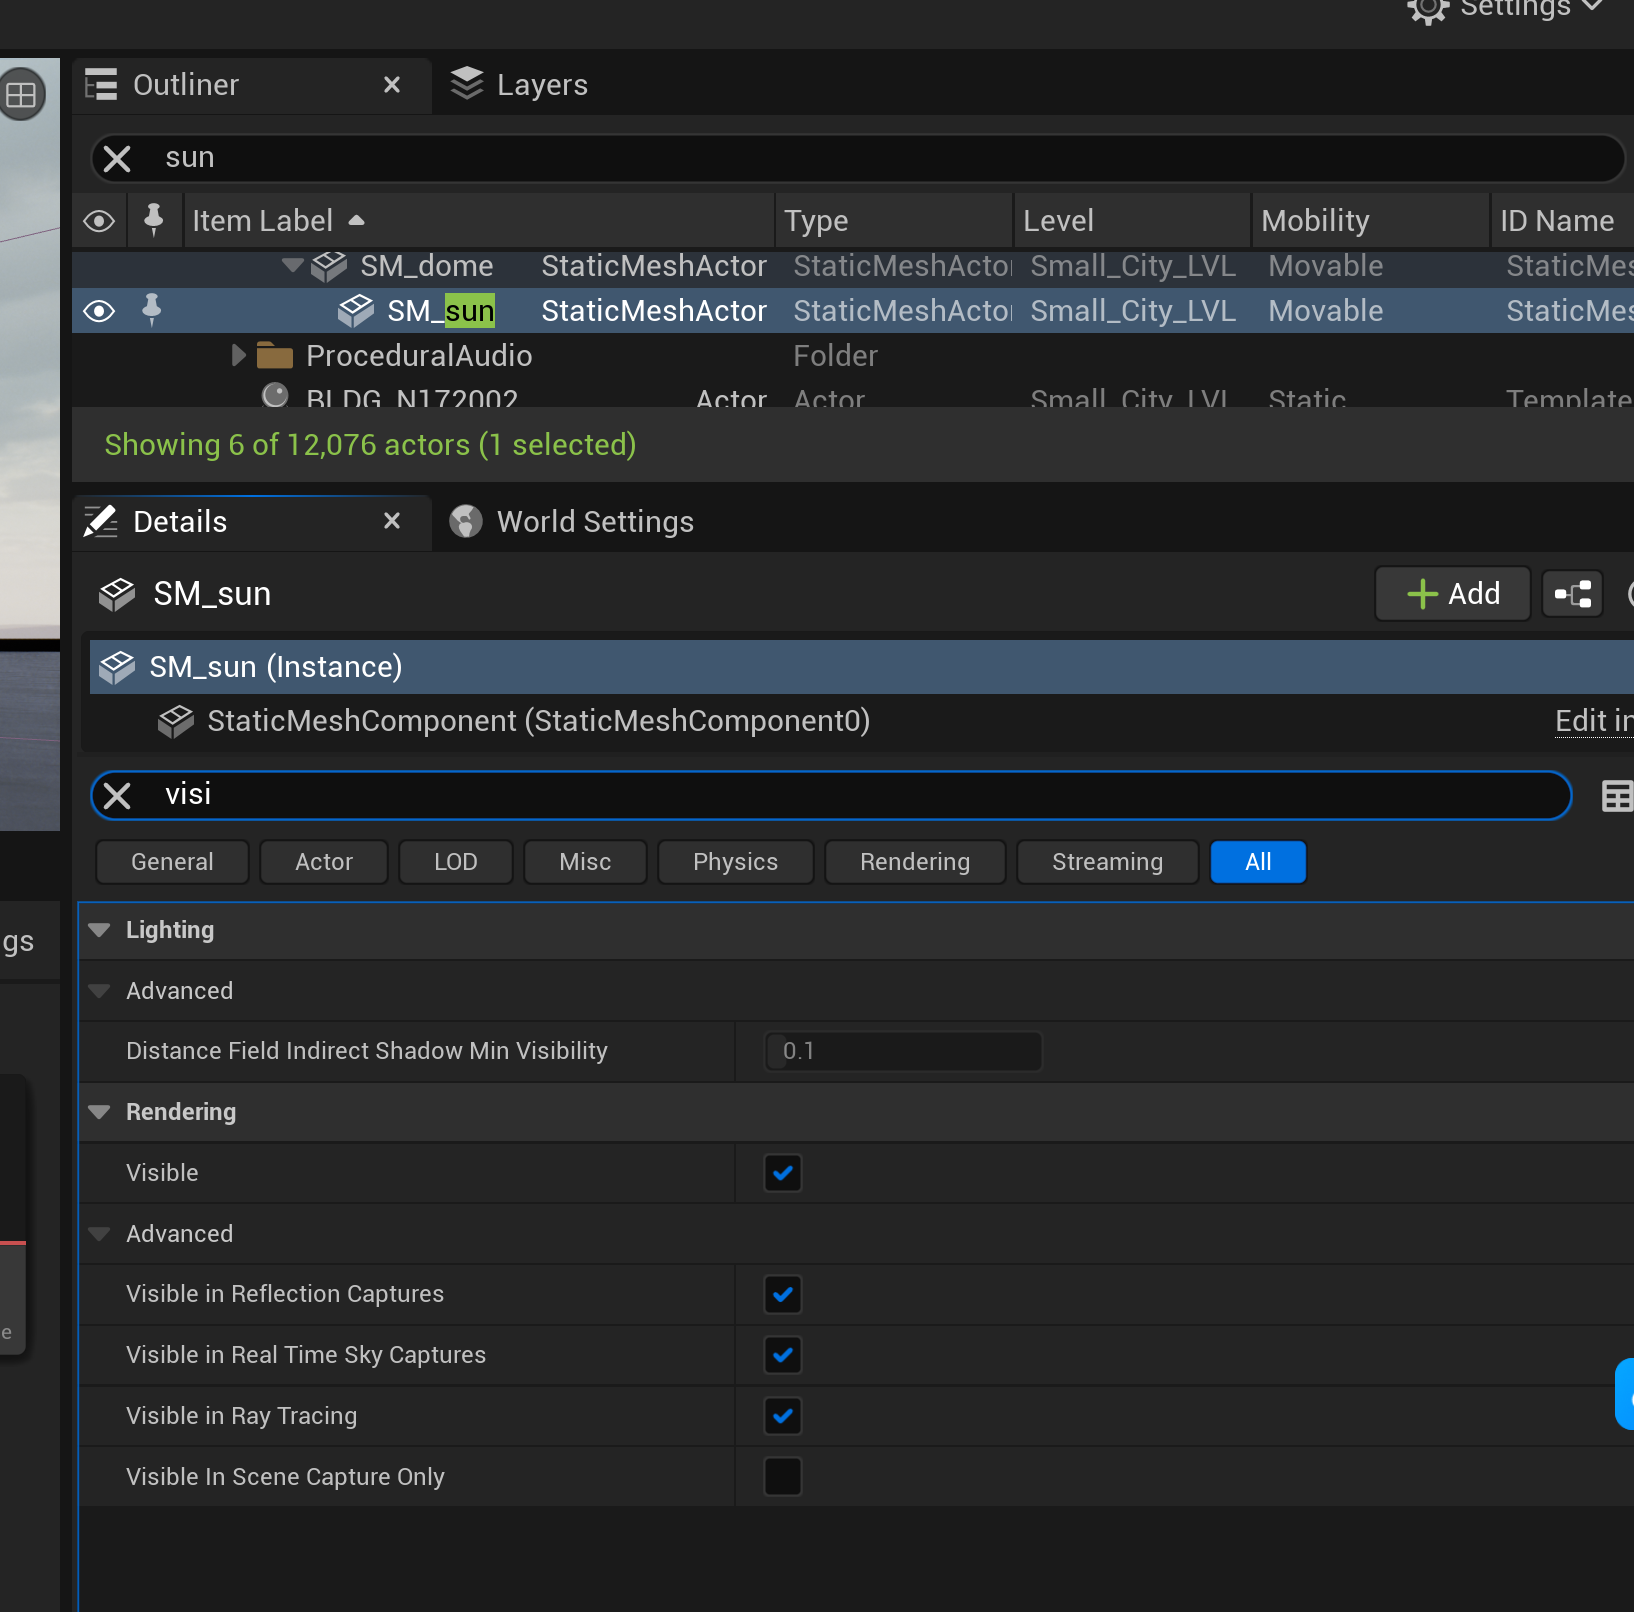
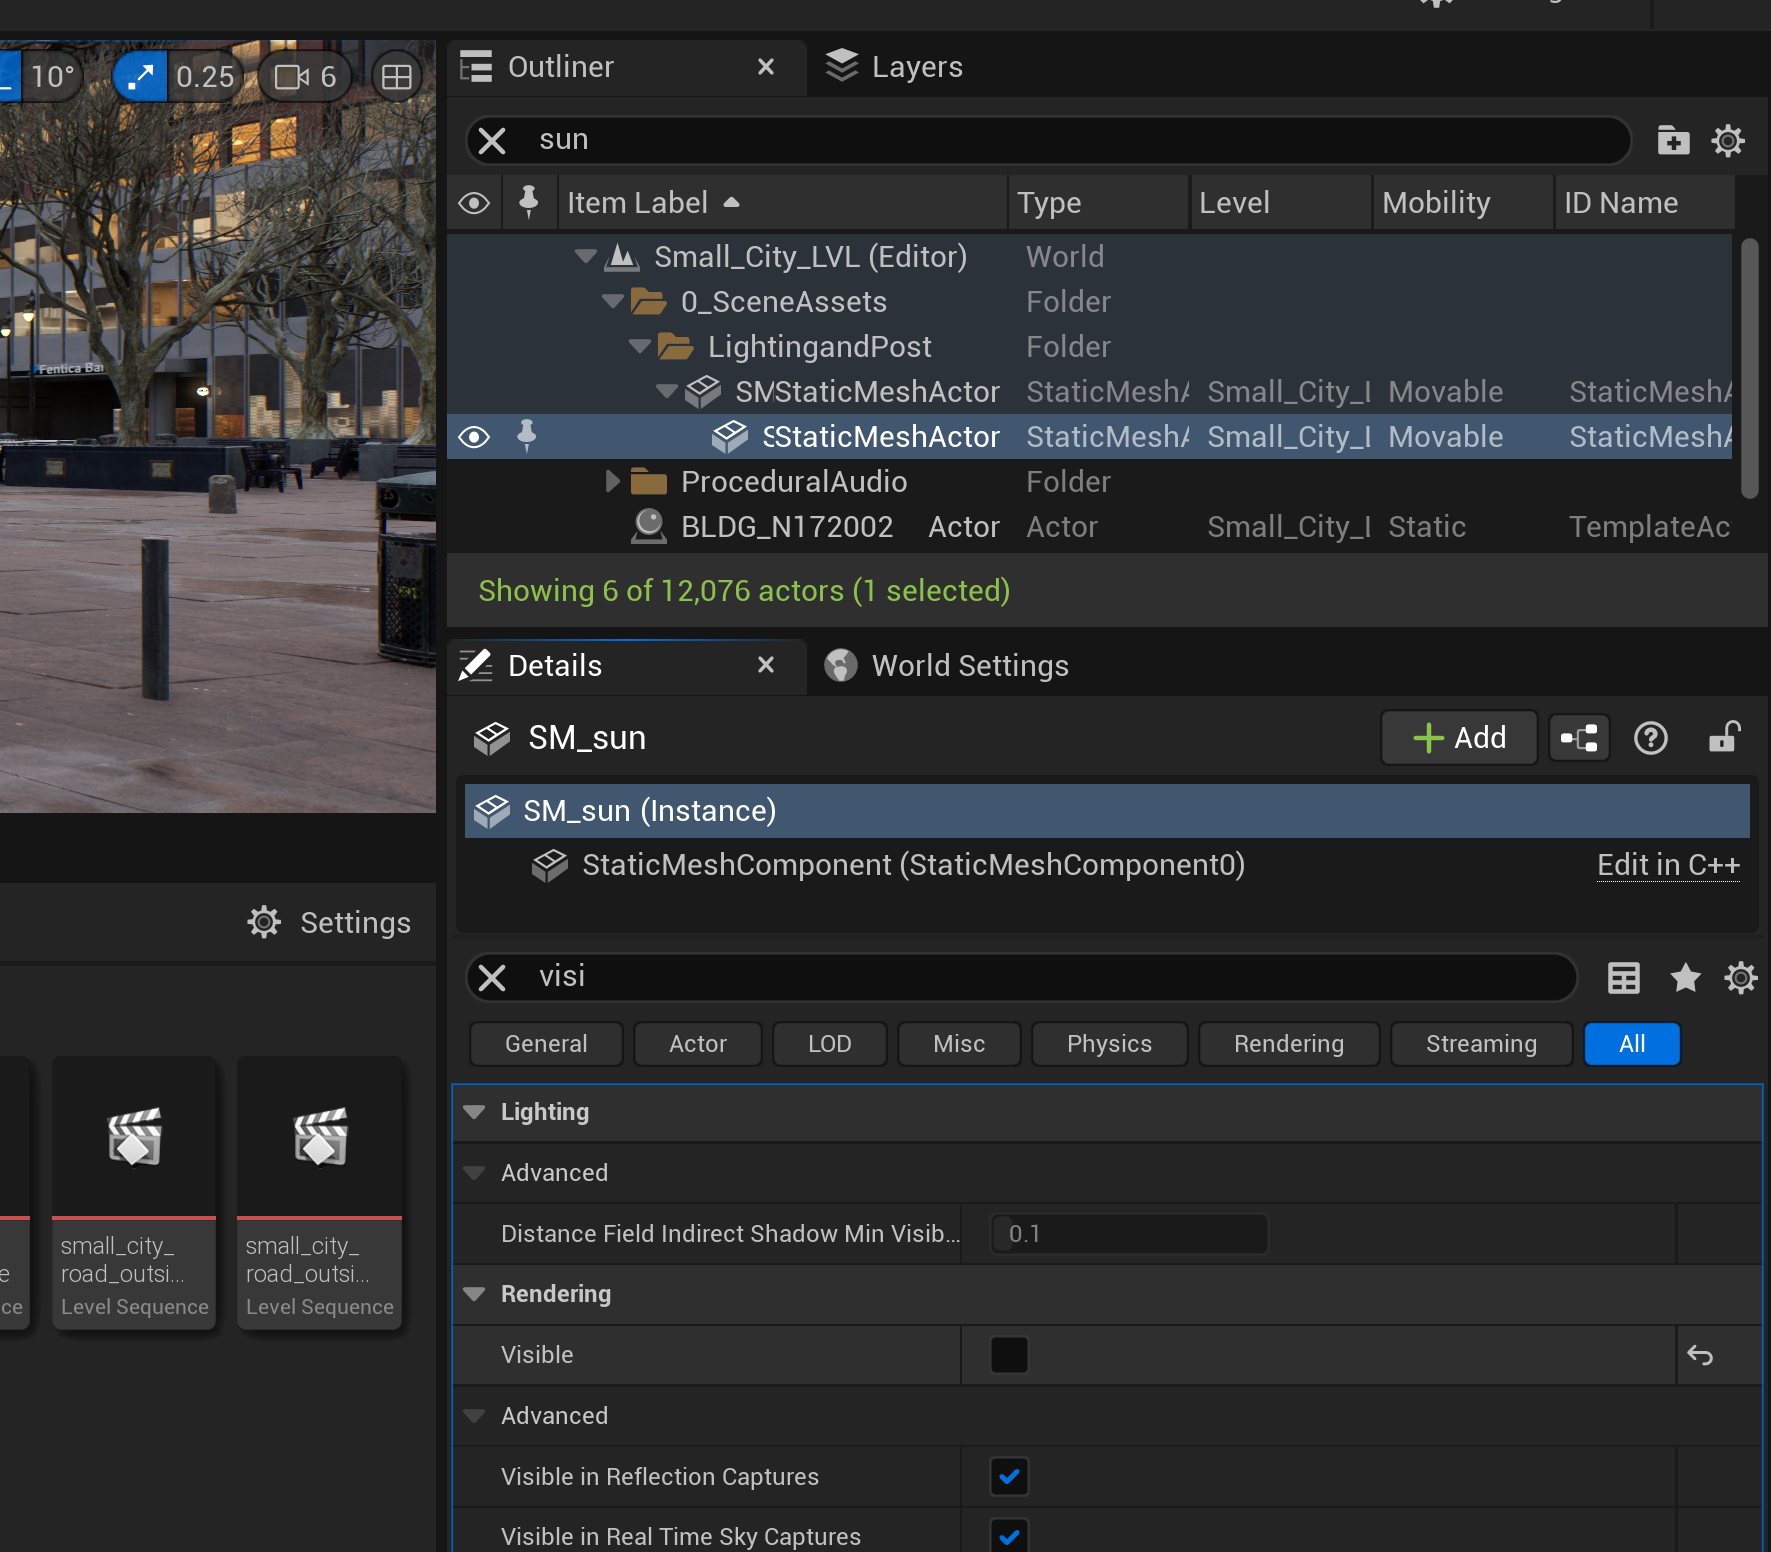
update readme

diff --git a/MatrixCityPlugin/docs/Render-Data.md b/MatrixCityPlugin/docs/Render-Data.md
@@ -14,7 +14,7 @@ The primary aim of the MatrixCity v0.1.0 dataset is to study the core challenges
     - Search `light` in `Outliner`, including sky light and directional light.
     ![Search_light](figures/Search_light.png)
 
-    - In our paper, we set the directional light invisible.
+    - In our paper, we set the directional light invisible, ie. `Visible` as False.
     ![Invisible_directional_light](figures/Invisible_directional_light.png)
 
     - In your work, you can set the directional light visible. After selecting the asset, you can adjust the light intensity, angle, color and so on for both sky light and directional light in the `Details` panel.
@@ -24,7 +24,7 @@ The primary aim of the MatrixCity v0.1.0 dataset is to study the core challenges
     - Search `sun` in `Outliner`
     ![Search_sun](figures/Search_sun.png)
 
-    - In our paper, we set the sun invisible to to avoid some overexposure situations. Note that never set the dome to invisible.
+    - In our paper, we set the sun invisible to to avoid some overexposure situations, ie. `Visible` as False. Note that never set the dome to invisible.
     ![Invisible_sun](figures/Invisible_sun.png)
     - In your work, you can set the sun visible.
 
@@ -32,7 +32,7 @@ The primary aim of the MatrixCity v0.1.0 dataset is to study the core challenges
     - Search `fog` in `Outliner`
     ![Search_fog](figures/Search_fog.png)
 
-    - In our paper, we set the fog invisible.
+    - In our paper, we set the fog invisible, ie. `Visible` as False.
     ![Invisible_fog](figures/Invisible_fog.png)
 
     - In your work, you can set the fog visible. After selecting the asset, you can adjust the fog's density, height and so on in the `Details` panel.
@@ -61,32 +61,32 @@ The primary aim of the MatrixCity v0.1.0 dataset is to study the core challenges
     ![Camera_vignette](figures/Camera_vignette.png)
 
 ## Render
-1. Double click the camera trajectory uasset to enter the sequence.
+### 1. Double click the camera trajectory uasset to enter the sequence.
 ![Into_sequence](figures/Into_sequence.png)
 ![In_sequence](figures/In_sequence.png)
 
-2. Select the newest Movie Render Queue version and click this icon to render images.
+### 2. Select the newest Movie Render Queue version and click this icon to render images.
 ![Select_MVQ_version](figures/Select_MVQ_version.png)
 
-3. Click the icons below to select the render config you want.
+### 3. Click the icons below to select the render config you want.
 ![Select_config](figures/Select_config.png)
 
-4. You can control the rendering pass in the section `Exports`. Our default rendering config only enable `rgb`, `depth` and `normal` pass. You can enable other passes you want. You can also control the output format by changing `Extension` of each path. **Note that output of exr format is in the linear space and output of png format is in the sRGB space, which needs gamma correction for mutual conversion.**
+### 4. You can control the rendering pass in the section `Exports`. Our default rendering config only enable `rgb`, `depth` and `normal` pass. You can enable other passes you want. You can also control the output format by changing `Extension` of each path. **Note that output of exr format is in the linear space and output of png format is in the sRGB space, which needs gamma correction for mutual conversion.**
 ![Select_render_pass](figures/Select_render_pass.png)
 
-5. You can control the output directory, output name format, and output resolution in the section `Output`. **After finishing setting the render config, remember to click the `Accept` icon.**
+### 5. You can control the output directory, output name format, and output resolution in the section `Output`. **After finishing setting the render config, remember to click the `Accept` icon.**
 ![Select_output_setting](figures/Select_output_setting.png) 
 
-6. (Optional) If you change the config file provided, you can click this icon to create your own config file, which is saved in folder `CitySample/Content/Cinematics`.
+### 6. (Optional) If you change the config file provided, you can click this icon to create your own config file, which is saved in folder `CitySample/Content/Cinematics`.
 ![Save_config](figures/Save_config.png)
 
-7. Click the `Render(local)` icon to render the images. **Note that the first running requires compiling the shaders, which will take a long time. Just wait patiently.** Output will be saved in the folder you specify in the render config. 
+### 7. Click the `Render(local)` icon to render the images. **Note that the first running requires compiling the shaders, which will take a long time. Just wait patiently.** Output will be saved in the folder you specify in the render config. 
 ![render](figures/render.png)
 
 ## Extra
 
 ### Camera aspect ratio:
-The default camera aspect ratio is 16:9. If your output resolution is not this ratio, you should set `Constrain Aspect Ratio` as false in the `Details` panel after selecting the cine camera actor. We have changed this setting in our provided camera trajectories of street view. Please note that you need to change this setting for your own generated trajectories, whose output resolution ratio is not 16:9.
+The default camera aspect ratio is 16:9. If your output resolution is not this ratio, you should set `Constrain Aspect Ratio` as False in the `Details` panel after selecting the cine camera actor. We have changed this setting in our provided camera trajectories of street view. Please note that you need to change this setting for your own generated trajectories, whose output resolution ratio is not 16:9.
 ![Set_constrain](figures/Set_constrain.png)
 
 ### Depth:
